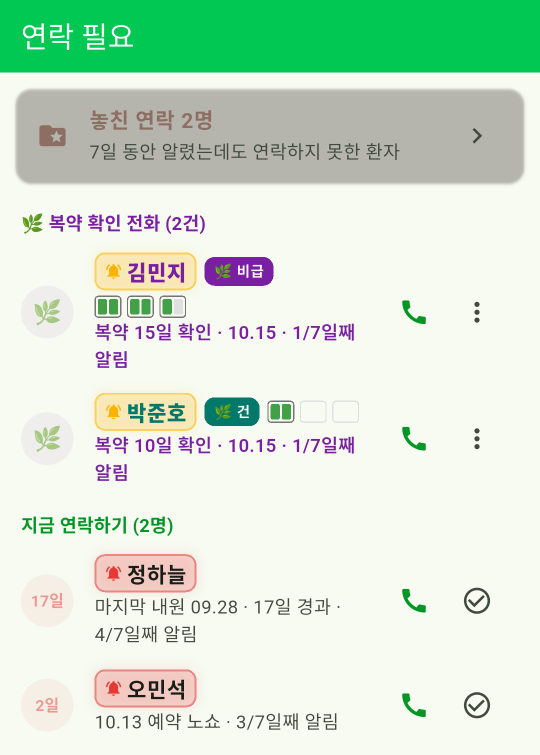
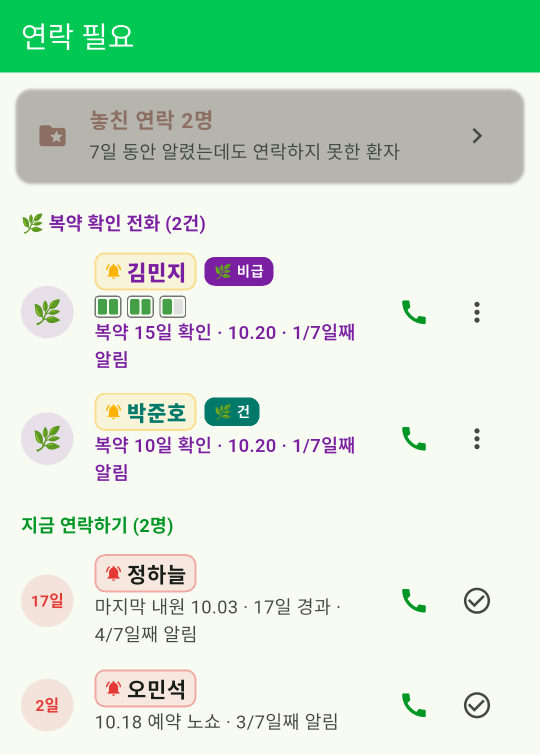
Hide the energy bar and course length for 건보첩약
건보첩약 is dispensed 10 days at a time, so only 비급여한약 patients get
the 1/2/3개월 course and energy bar. The plan screen hides the course
selector for 건보 and saves no course length; user guide, screenshots
and tests updated.

diff --git a/lib/screens/herb_plan_screen.dart b/lib/screens/herb_plan_screen.dart
@@ -64,6 +64,8 @@ class _HerbPlanScreenState extends State<HerbPlanScreen> {
   /// 종류를 바꾸면, 알림 날짜를 아직 손대지 않았을 때(기본값 그대로)만 새 종류의 기본 날짜로 바꿉니다.
   void _changeType(HerbType type) {
     if (type == _type) return;
+    // 비급여로 바꿀 때 기간이 비어 있으면 1개월을 기본으로.
+    if (type == HerbType.nonInsured) _days ??= kHerbDurations.first;
     final untouched =
         _dates.isEmpty || _sameDates(_dates, _defaultDatesFor(_type));
     setState(() {
@@ -139,7 +141,7 @@ class _HerbPlanScreenState extends State<HerbPlanScreen> {
       start: _start,
       dates: _dates,
       type: _type,
-      days: _days,
+      days: _type == HerbType.nonInsured ? _days : null,
     );
     if (mounted) Navigator.of(context).pop(true);
   }
@@ -204,53 +206,57 @@ class _HerbPlanScreenState extends State<HerbPlanScreen> {
               style: const TextStyle(fontSize: 12, color: Colors.grey),
             ),
           ),
-          const SizedBox(height: 16),
-          Text(
-            '복약 기간',
-            style: Theme.of(context).textTheme.titleSmall?.copyWith(
-              color: kHerbPurple,
-              fontWeight: FontWeight.bold,
+          // 복약 기간 · 에너지바는 비급여한약만 (건보첩약은 10일치씩 나감)
+          if (_type == HerbType.nonInsured) ...[
+            const SizedBox(height: 16),
+            Text(
+              '복약 기간',
+              style: Theme.of(context).textTheme.titleSmall?.copyWith(
+                color: kHerbPurple,
+                fontWeight: FontWeight.bold,
+              ),
             ),
-          ),
-          const SizedBox(height: 8),
-          SegmentedButton<int>(
-            segments: [
-              for (final d in kHerbDurations)
-                ButtonSegment(value: d, label: Text(herbDurationLabel(d))),
-            ],
-            selected: {?_days},
-            emptySelectionAllowed: true,
-            showSelectedIcon: false,
-            style: SegmentedButton.styleFrom(
-              selectedBackgroundColor: herbColorOf(
-                _type,
-              ).withValues(alpha: 0.18),
-              selectedForegroundColor: herbColorOf(_type),
-            ),
-            onSelectionChanged: (v) =>
-                setState(() => _days = v.isEmpty ? null : v.first),
-          ),
-          Padding(
-            padding: const EdgeInsets.fromLTRB(4, 8, 4, 0),
-            child: Row(
-              children: [
-                HerbEnergyBar(
-                  customer: widget.customer.copyWith(
-                    herbStart: _start,
-                    herbDays: _days,
-                  ),
-                  showDays: true,
-                ),
-                const SizedBox(width: 8),
-                const Expanded(
-                  child: Text(
-                    '1칸 = 15일. 날이 지나면 한 칸씩 줄어요.',
-                    style: TextStyle(fontSize: 12, color: Colors.grey),
-                  ),
-                ),
+            const SizedBox(height: 8),
+            SegmentedButton<int>(
+              segments: [
+                for (final d in kHerbDurations)
+                  ButtonSegment(value: d, label: Text(herbDurationLabel(d))),
               ],
+              selected: {?_days},
+              emptySelectionAllowed: true,
+              showSelectedIcon: false,
+              style: SegmentedButton.styleFrom(
+                selectedBackgroundColor: herbColorOf(
+                  _type,
+                ).withValues(alpha: 0.18),
+                selectedForegroundColor: herbColorOf(_type),
+              ),
+              onSelectionChanged: (v) =>
+                  setState(() => _days = v.isEmpty ? null : v.first),
             ),
-          ),
+            Padding(
+              padding: const EdgeInsets.fromLTRB(4, 8, 4, 0),
+              child: Row(
+                children: [
+                  HerbEnergyBar(
+                    customer: widget.customer.copyWith(
+                      herbStart: _start,
+                      herbType: _type,
+                      herbDays: _days,
+                    ),
+                    showDays: true,
+                  ),
+                  const SizedBox(width: 8),
+                  const Expanded(
+                    child: Text(
+                      '1칸 = 15일. 날이 지나면 한 칸씩 줄어요.',
+                      style: TextStyle(fontSize: 12, color: Colors.grey),
+                    ),
+                  ),
+                ],
+              ),
+            ),
+          ],
           const SizedBox(height: 16),
           Card(
             child: ListTile(

diff --git a/lib/screens/help_screen.dart b/lib/screens/help_screen.dart
@@ -523,7 +523,7 @@ List<_Section> _buildSections() => [
       ],
     ),
     _Block(
-      heading: '복약 에너지바 (한 달 = 한 묶음, 1칸 = 15일)',
+      heading: '복약 에너지바 – 비급여한약만 (한 달 = 한 묶음, 1칸 = 15일)',
       legend: [
         (
           HerbEnergyBar(
@@ -566,7 +566,7 @@ List<_Section> _buildSections() => [
         ),
         (
           HerbEnergyBar(
-            customer: _sample('a', herb: HerbType.insured, days: 30),
+            customer: _sample('a', herb: HerbType.nonInsured, days: 30),
           ),
           '1개월 처방: 첫 묶음만 쓰고 나머지는 흐린 테두리',
         ),
@@ -827,7 +827,7 @@ List<_Section> _buildSections() => [
       steps: [
         '환자 화면 → [🌿 한약 복약 시작].',
         '맨 위 "한약 종류"에서 [건보첩약] 또는 [비급여한약]을 골라요. 확인 전화 날짜가 자동으로 채워져요.',
-        '"복약 기간"에서 [1개월 / 2개월 / 3개월]을 골라요. 바로 아래에 에너지바 미리 보기가 나와요.',
+        '(비급여한약만) "복약 기간"에서 [1개월 / 2개월 / 3개월]을 골라요. 바로 아래에 에너지바 미리 보기가 나와요. 건보첩약은 10일치씩 나가서 이 칸이 없어요.',
         '복약 시작일은 오늘로 들어가요. 다른 날이면 시작일 칸을 눌러 바꿔요 (알림 날짜도 같이 옮겨져요).',
         '필요하면 확인 전화 날짜를 더해요: [달력에서 날짜 골라 추가] 또는 빠른 추가(+7일 · +10일 · +15일 · +25일 · +30일 · +45일 · +60일 · +90일). 최대 $kMaxHerbAlerts개. ✕ 로 빼기.',
         '아래 [복약 시작](또는 오른쪽 위 ✓)을 눌러 저장.',
@@ -983,10 +983,12 @@ List<_Section> _buildSections() => [
       text: '아니요. 새 APK를 덮어 설치하면 데이터는 그대로예요. 앱을 \'삭제\'하면 지워지니 주의하세요.',
     ),
     _Block(
-      heading: '예전에 등록한 한약 환자에게 에너지바가 안 보여요.',
+      heading: '한약 환자인데 에너지바가 안 보여요.',
       text:
-          '복약 기간 기능이 생기기 전에 시작한 환자는 기간이 비어 있어요. 환자 화면 → [일정 수정]에서 1·2·3개월을 고르면 나타나요. '
-          '종류도 비급여한약으로 들어가 있으니 건보첩약이면 같이 바꿔 주세요.',
+          '에너지바는 비급여한약 환자에게만 보여요. 건보첩약은 10일치씩 나가서 에너지바를 쓰지 않아요.\n'
+          '비급여한약인데 안 보이면, 복약 기간 기능이 생기기 전에 시작한 환자라 기간이 비어 있는 거예요. '
+          '환자 화면 → [일정 수정]에서 1·2·3개월을 고르면 나타나요. '
+          '(예전 한약 환자는 모두 비급여로 들어가 있으니 건보첩약이면 종류도 바꿔 주세요)',
     ),
     _Block(
       heading: '[연락함]을 실수로 눌렀어요.',
@@ -1014,6 +1016,7 @@ List<_Section> _buildSections() => [
 
 /// 지금까지 추가된 기능 (최신이 위).
 const _changelog = <(String, List<String>)>[
+  ('건보첩약 에너지바 없앰', ['건보첩약은 10일치씩 나가서 복약 기간·에너지바를 쓰지 않아요. 비급여한약만 표시.']),
   ('초진 표시', ['오늘 예약 명단에서 초진 환자는 파란 줄 + [초진] 배지, 재진은 "N회차".']),
   (
     '복약 기간 · 에너지바',

diff --git a/lib/models/customer.dart b/lib/models/customer.dart
@@ -31,12 +31,16 @@ class Customer {
   /// 지금 한약을 복용 중인 환자인지.
   bool get isHerbal => herbStart != null;
 
+  /// 에너지바를 보여줄지. 건보첩약은 10일치씩 나가서 복약 기간·에너지바를 쓰지 않습니다.
+  bool get hasEnergyBar =>
+      isHerbal && herbType == HerbType.nonInsured && herbDays != null;
+
   /// 남은 복약 일수 (0 ~ [herbDays]). 기간을 정하지 않았으면 null.
   /// 일정 미루기로 시작일이 뒤로 가면 남은 일수도 그만큼 늘어납니다.
   int? get herbRemainingDays {
-    final start = herbStart;
-    final days = herbDays;
-    if (start == null || days == null) return null;
+    if (!hasEnergyBar) return null;
+    final start = herbStart!;
+    final days = herbDays!;
     final end = dateOnly(start).add(Duration(days: days));
     return end.difference(today()).inDays.clamp(0, days);
   }

diff --git a/test/customer_overview_test.dart b/test/customer_overview_test.dart
@@ -304,6 +304,24 @@ void main() {
       );
     });
   });
+
+  test('건보첩약은 에너지바를 쓰지 않는다', () {
+    final insured = Customer(
+      name: '건보',
+      phone: '010',
+      gender: '남',
+      herbStart: today(),
+      herbType: HerbType.insured,
+      herbDays: 30,
+      createdAt: today(),
+    );
+    expect(insured.hasEnergyBar, isFalse);
+    expect(insured.herbRemainingDays, isNull);
+    expect(
+      insured.copyWith(herbType: HerbType.nonInsured).hasEnergyBar,
+      isTrue,
+    );
+  });
 }
 
 CustomerOverview herbOverview({

diff --git a/lib/widgets/customer_name.dart b/lib/widgets/customer_name.dart
@@ -69,8 +69,7 @@ class CustomerName extends StatelessWidget {
         else
           _GlowingName(color: glow, child: name),
         if (herbal) HerbBadge(type: customer.herbType),
-        if (herbal && customer.herbDays != null)
-          HerbEnergyBar(customer: customer),
+        if (customer.hasEnergyBar) HerbEnergyBar(customer: customer),
         if (milestone != null) MilestoneBadge(number: milestone!),
       ],
     );

diff --git a/lib/screens/customer_detail_screen.dart b/lib/screens/customer_detail_screen.dart
@@ -372,7 +372,7 @@ class _HerbCard extends StatelessWidget {
             '${elapsed >= 0 ? '  ·  오늘 복약 $elapsed일째' : ''}',
             style: const TextStyle(fontWeight: FontWeight.bold),
           ),
-          if (overview.customer.herbDays != null) ...[
+          if (overview.customer.hasEnergyBar) ...[
             const SizedBox(height: 8),
             Row(
               children: [
